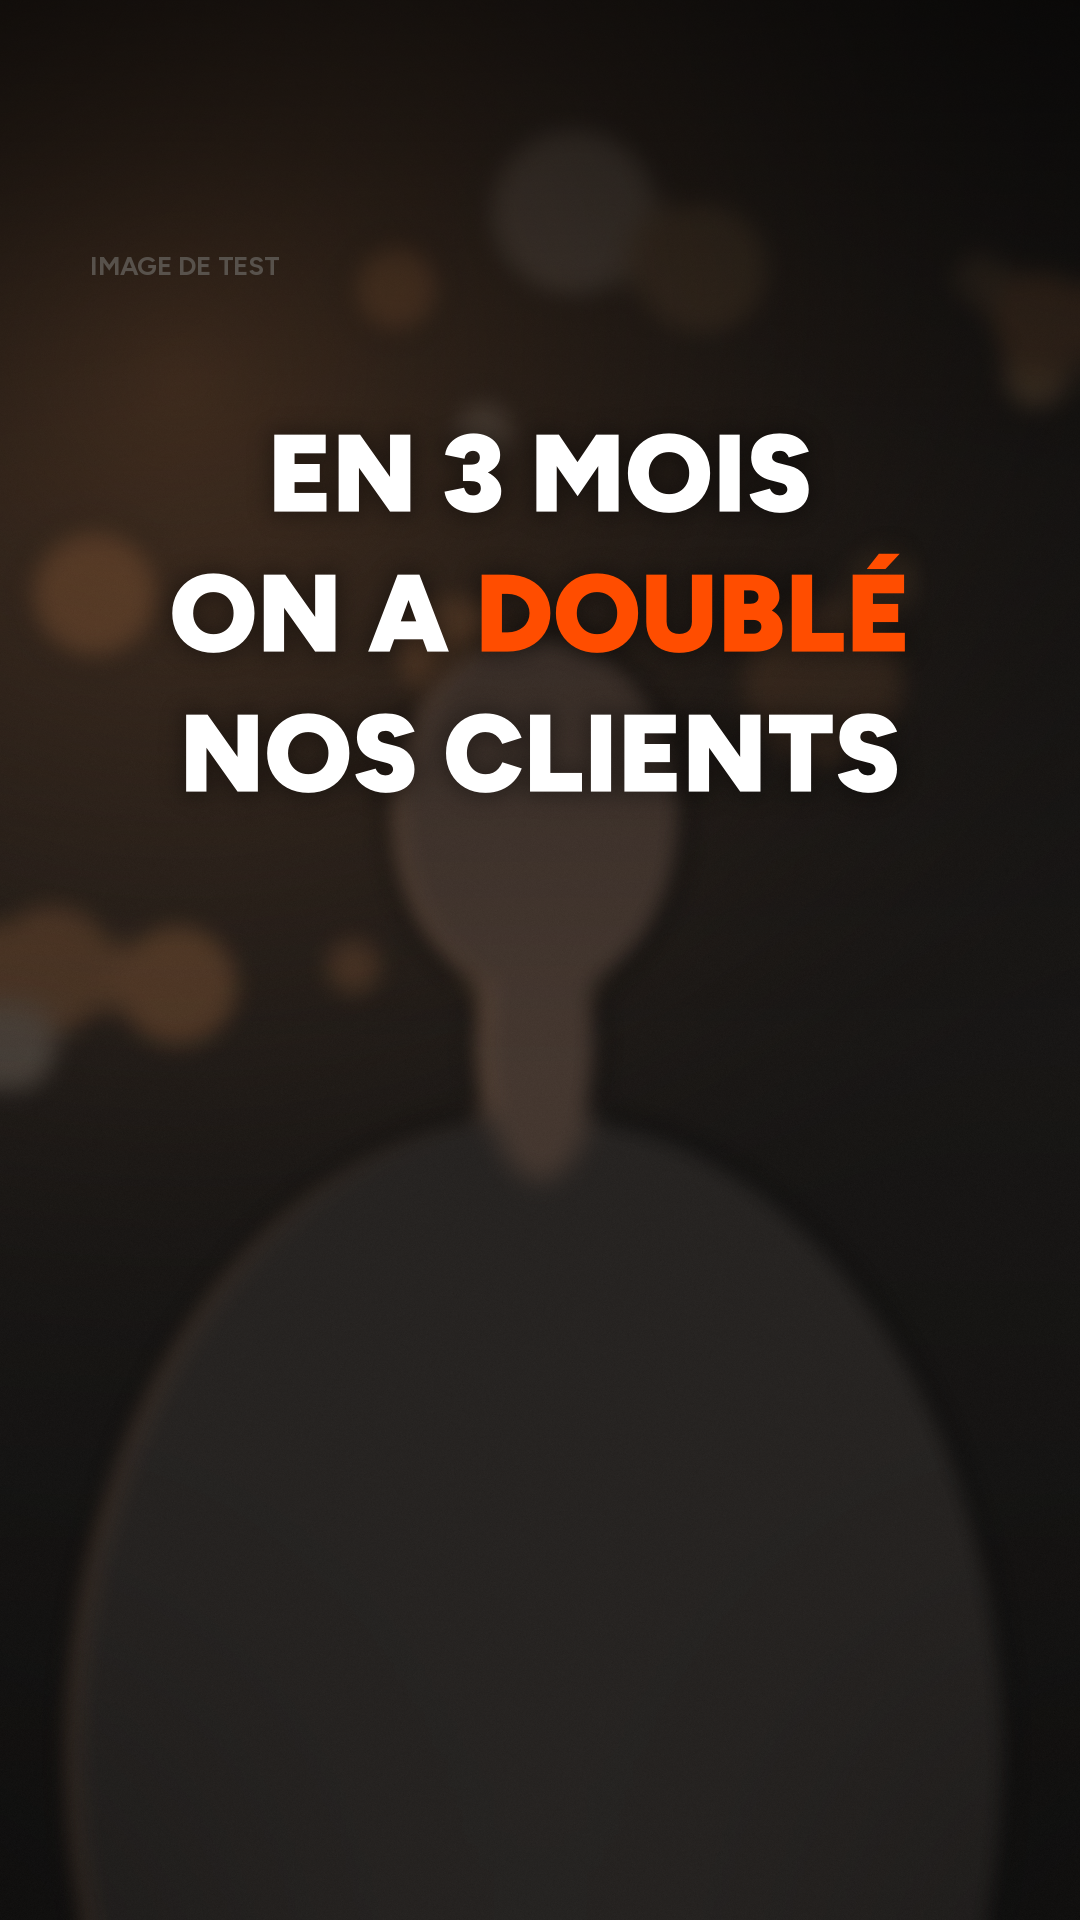
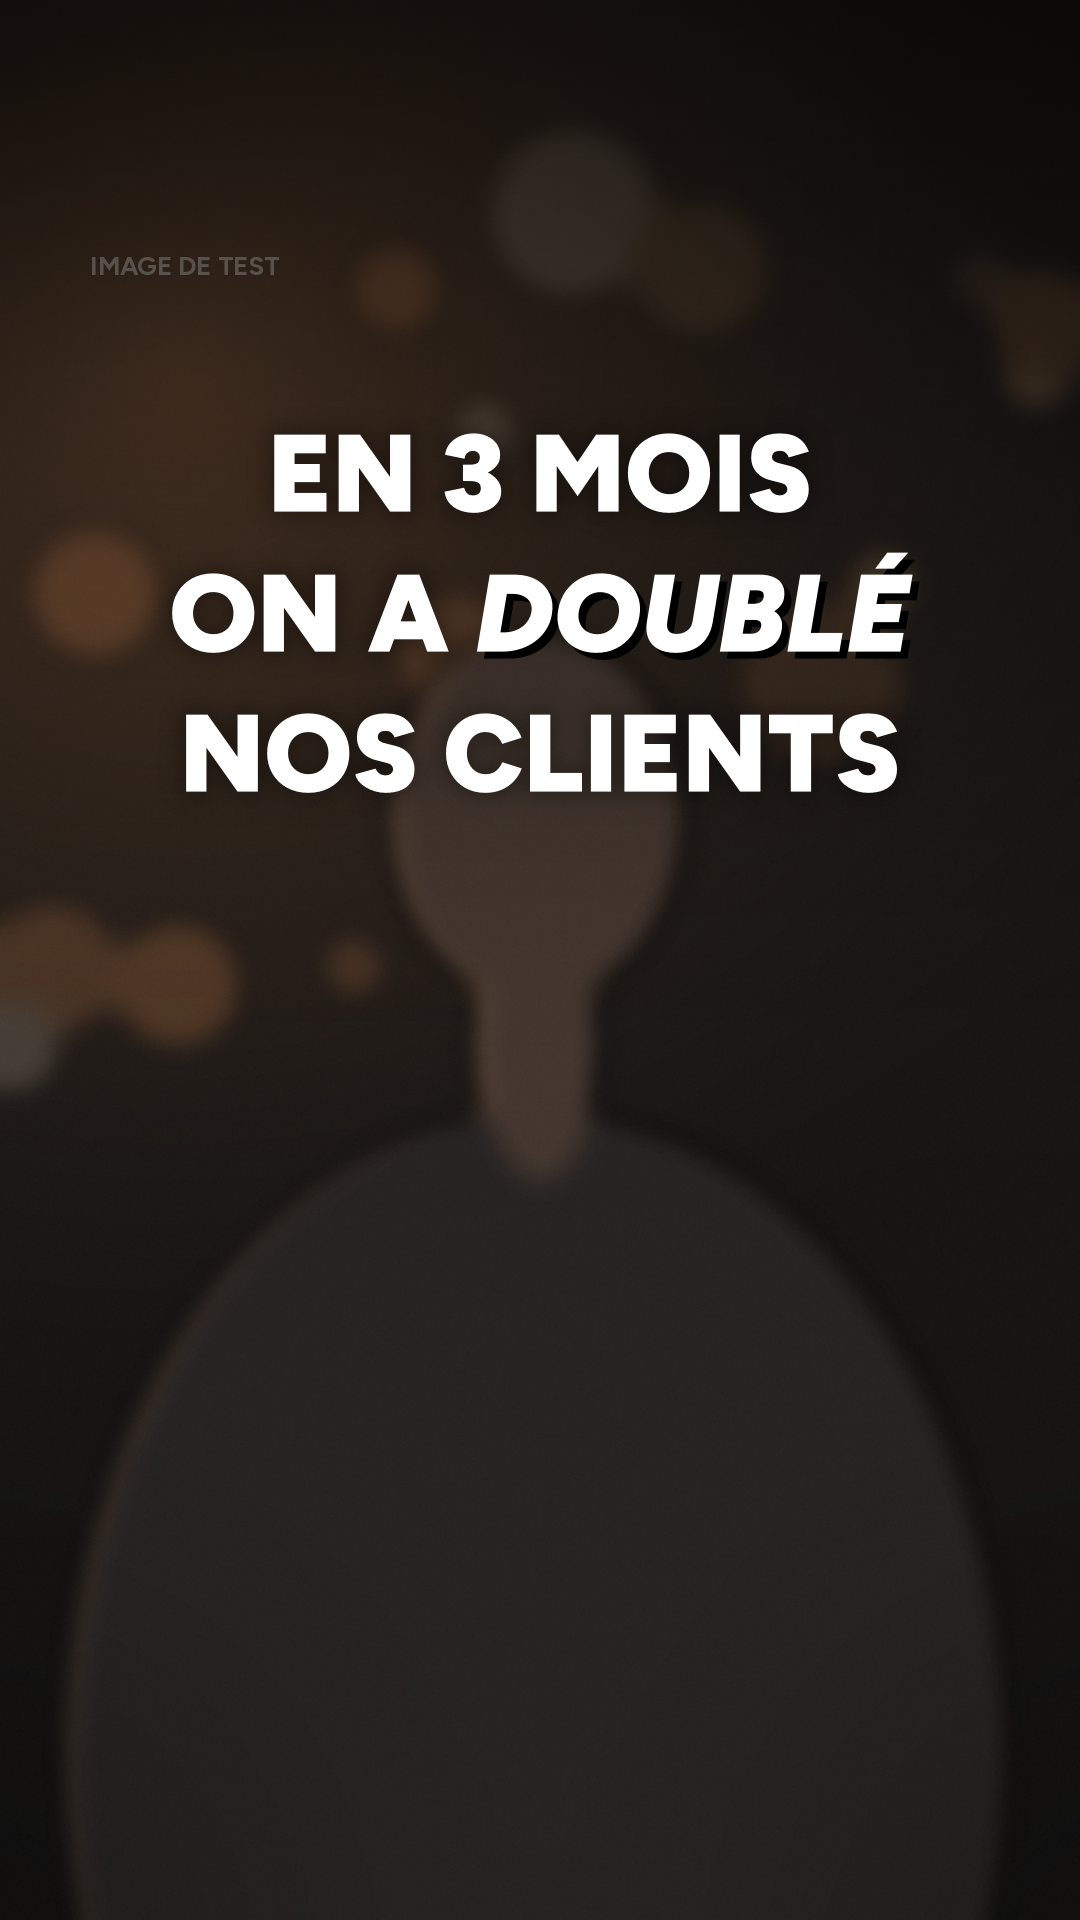
Style noir et blanc : plus d'orange, mots en évidence en italique accentué avec relief noir ; plus de pictos ; bruitages brefs (woutch, toc feutré)
- charte : mise_en_evidence (italique + inclinaison ajoutée + relief noir), moteur.accent blanc, règles mises à jour
- moteur : accroche, grand titre et sous-titres utilisent la mise en évidence ; chiffres, cartes et coches en blanc
- sons : woutch, woutch_court, tap ; plus de scintillement, pop, tics ni bips
- rendu.mjs : option --instants pour un contrôle rapide de quelques images
- aperçus refaits (plus d'aperçu de picto)
- témoignage Hock : pictos retirés (à remplacer par des plans de coupe)

Claude-Session: https://claude.ai/code/session_01VNkxyZ78PRMin1GHmDhwvf

Changed region(s): [[0.4278, 0.2812, 0.8556, 0.3438]]

diff --git a/moteur/src/cartes/AutresCartes.tsx b/moteur/src/cartes/AutresCartes.tsx
@@ -1,5 +1,6 @@
 import React from 'react';
 import {easeOut, lerp, nombreFr, prog} from '../temps';
+import {rgba} from '../miseEnEvidence';
 
 const cadre: React.CSSProperties = {
   position: 'absolute', inset: 0, background: '#0e0e0e', borderRadius: 32, border: '1.5px solid rgba(255,255,255,0.12)',
@@ -7,9 +8,9 @@ const cadre: React.CSSProperties = {
 };
 const titre: React.CSSProperties = {fontFamily: 'Figtree Bold', fontSize: 30, color: '#fff', marginBottom: 26, lineHeight: 1.2};
 
-// Entonnoir : les étapes apparaissent l'une après l'autre, la dernière en orange.
+// Entonnoir : les étapes apparaissent l'une après l'autre, la dernière mise en avant.
 export const Entonnoir: React.FC<{e: any; t: number; charte: any}> = ({e, t, charte}) => {
-  const accent = charte.couleurs.orange;
+  const accent = charte.moteur.accent;
   const n = e.etapes.length;
   const largeur = 388;
   const hauteur = Math.min(150, (764 - 68 - (e.titre ? 66 : 0) - 12 * (n - 1)) / n);
@@ -29,7 +30,7 @@ export const Entonnoir: React.FC<{e: any; t: number; charte: any}> = ({e, t, cha
               <svg width={largeur} height={hauteur} style={{position: 'absolute', inset: 0}}>
                 <path
                   d={`M${(largeur - haut) / 2} 1 H${(largeur + haut) / 2} L${(largeur + bas) / 2} ${hauteur - 1} H${(largeur - bas) / 2} Z`}
-                  fill={derniere ? 'rgba(255,77,0,0.16)' : 'rgba(255,255,255,0.07)'} stroke={derniere ? accent : 'rgba(255,255,255,0.7)'} strokeWidth={2} strokeLinejoin="round"
+                  fill={derniere ? rgba(accent, 0.16) : 'rgba(255,255,255,0.07)'} stroke={derniere ? accent : 'rgba(255,255,255,0.7)'} strokeWidth={2} strokeLinejoin="round"
                 />
               </svg>
               <div style={{position: 'absolute', inset: 0, display: 'flex', flexDirection: 'column', alignItems: 'center', justifyContent: 'center'}}>
@@ -46,9 +47,9 @@ export const Entonnoir: React.FC<{e: any; t: number; charte: any}> = ({e, t, cha
   );
 };
 
-// Gros chiffre : le nombre défile au centre d'un anneau orange qui se remplit.
+// Gros chiffre : le nombre défile au centre d'un anneau qui se remplit.
 export const GrosChiffre: React.FC<{e: any; t: number; charte: any}> = ({e, t, charte}) => {
-  const accent = charte.couleurs.orange;
+  const accent = charte.moteur.accent;
   const [a, b] = e._t.comptage;
   const texteFixe = typeof e.texte === 'string' && e.texte.length > 0;
   // avec un texte fixe : pas de comptage, le texte apparaît et l'anneau se dessine
@@ -80,9 +81,9 @@ export const GrosChiffre: React.FC<{e: any; t: number; charte: any}> = ({e, t, c
   );
 };
 
-// Checklist : chaque ligne se coche à son tour (coche orange qui se dessine).
+// Checklist : chaque ligne se coche à son tour (coche qui se dessine).
 export const Checklist: React.FC<{e: any; t: number; charte: any}> = ({e, t, charte}) => {
-  const accent = charte.couleurs.orange;
+  const accent = charte.moteur.accent;
   return (
     <div style={cadre}>
       {e.titre && <div style={titre}>{e.titre}</div>}
@@ -92,7 +93,7 @@ export const Checklist: React.FC<{e: any; t: number; charte: any}> = ({e, t, cha
           const coche = easeOut(prog(t, e._t.coches[i], e._t.coches[i] + 0.25));
           return (
             <div key={i} style={{display: 'flex', alignItems: 'center', gap: 18, opacity: apparition, transform: `translateX(${((1 - apparition) * 24).toFixed(1)}px)`}}>
-              <div style={{width: 48, height: 48, borderRadius: 12, flexShrink: 0, border: `2px solid ${coche > 0 ? accent : 'rgba(255,255,255,0.6)'}`, background: coche > 0 ? 'rgba(255,77,0,0.12)' : 'transparent', position: 'relative'}}>
+              <div style={{width: 48, height: 48, borderRadius: 12, flexShrink: 0, border: `2px solid ${coche > 0 ? accent : 'rgba(255,255,255,0.6)'}`, background: coche > 0 ? rgba(accent, 0.12) : 'transparent', position: 'relative'}}>
                 <svg viewBox="0 0 24 24" width={44} height={44} style={{position: 'absolute', left: 0, top: 0}}>
                   <path d="M5.5 12.5 L10 17 L18.5 7.5" pathLength={1} fill="none" stroke={accent} strokeWidth={3} strokeLinecap="round" strokeLinejoin="round" strokeDasharray="1 1" strokeDashoffset={1 - coche} />
                 </svg>

diff --git a/moteur/src/couches/Accroche.tsx b/moteur/src/couches/Accroche.tsx
@@ -2,6 +2,7 @@ import React from 'react';
 import {useCurrentFrame, useVideoConfig} from 'remotion';
 import {miseEnPageAccroche} from '../miseEnPage';
 import {easeOut, fondu, prog, sansPonctuation} from '../temps';
+import {styleEvidence} from '../miseEnEvidence';
 
 // Accroche d'ouverture : un sur-titre qui glisse, puis un titre qui s'écrit lettre par lettre.
 export const Accroche: React.FC<{e: any; charte: any; projet: any}> = ({e, charte, projet}) => {
@@ -11,7 +12,6 @@ export const Accroche: React.FC<{e: any; charte: any; projet: any}> = ({e, chart
   if (t < e.debut || t > e.fin) return null;
   const A = charte.moteur.accroche;
   const ti = charte.titres;
-  const accent = charte.couleurs.orange;
   // Sous le visage, juste au-dessus des sous-titres ; l'image ne bouge pas (miseEnPage.ts).
   const {presentation, avecSurtitre, surtitreTaille, surtitreY, em, ecart, premiere, haut} = miseEnPageAccroche(e, charte);
   // léger voile sombre derrière le titre et les sous-titres ; il commence sous le menton
@@ -60,17 +60,18 @@ export const Accroche: React.FC<{e: any; charte: any; projet: any}> = ({e, chart
             }}
           >
             {mots.map((mot, mi) => {
-              const couleur = sansPonctuation(mot) === accentMot ? accent : '#fff';
+              // mot mis en évidence : italique + relief (pas de couleur)
+              const evidence = sansPonctuation(mot) === accentMot ? styleEvidence(ti.police, em, charte) : {};
               const caracteres = (mi > 0 ? ' ' : '') + mot;
               return caracteres.split('').map((ch, ci) => {
                 const i = pos++;
                 const a = easeOut(prog(t, e._t.titre + i / e._t.vitesse, e._t.titre + i / e._t.vitesse + 0.08));
                 const dernier = i === dernierIndex;
                 return (
-                  <span key={`${mi}-${ci}`} style={{position: 'relative', display: 'inline-block', color: couleur}}>
+                  <span key={`${mi}-${ci}`} style={{position: 'relative', display: 'inline-block', color: '#fff', ...evidence}}>
                     <span style={{display: 'inline-block', opacity: a, transform: `translateY(${((1 - a) * 14).toFixed(1)}px)`, filter: a < 1 ? `blur(${((1 - a) * 4).toFixed(1)}px)` : 'none'}}>{ch}</span>
                     {dernier && curseurVisible && (
-                      <span style={{position: 'absolute', right: -14, top: '50%', width: presentation ? 6 : 8, height: em * 0.8, marginTop: -em * 0.45, background: presentation ? '#fff' : accent, borderRadius: 2}} />
+                      <span style={{position: 'absolute', right: -14, top: '50%', width: presentation ? 6 : 8, height: em * 0.8, marginTop: -em * 0.45, background: '#fff', borderRadius: 2}} />
                     )}
                   </span>
                 );

diff --git a/moteur/src/couches/SousTitres.tsx b/moteur/src/couches/SousTitres.tsx
@@ -2,10 +2,11 @@ import React from 'react';
 import {useCurrentFrame, useVideoConfig} from 'remotion';
 import {easeOut, emDepuisAss, fondu, prog} from '../temps';
 import {DessinIcone} from './Icone';
+import {styleEvidence} from '../miseEnEvidence';
 
 // Sous-titres mot à mot. Même place, même taille, même police de base et même ombre
 // que ceux de la première vidéo (charte → sous_titres). Seuls changent :
-// l'apparition mot par mot, le mot en cours en orange et les mots-clés en Figtree Black.
+// l'apparition mot par mot et les mots-clés en italique avec un relief (charte → mise_en_evidence). Tout reste blanc.
 // Les icônes liées à un mot sont dessinées juste au-dessus de ce mot (jamais sur le visage) ;
 // si la ligne de sous-titres change avant la fin de l'icône, l'icône reste à sa place.
 export const SousTitres: React.FC<{projet: any; charte: any}> = ({projet, charte}) => {
@@ -24,6 +25,7 @@ export const SousTitres: React.FC<{projet: any; charte: any}> = ({projet, charte
   const M = charte.moteur.sous_titres;
   const em = emDepuisAss(n.taille_ass);
   const o = st.ombre;
+  const relief = styleEvidence(M.mots_cles_police, em, charte);
   const ombre = `${o.decalage_x_px}px ${o.decalage_y_px}px ${o.flou}px rgba(0,0,0,1), ${o.decalage_x_px}px ${o.decalage_y_px}px ${o.epaisseur_px}px rgba(0,0,0,0.95), 0 0 ${o.epaisseur_px}px rgba(0,0,0,0.6)`;
 
   const icones = projet.effets.filter((e: any) => e.type === 'icone' && e.mot_id !== undefined && t >= e.debut && t <= e.fin);
@@ -51,9 +53,9 @@ export const SousTitres: React.FC<{projet: any; charte: any}> = ({projet, charte
               {i > 0 ? ' ' : ''}
               <span
                 style={{
-                  position: 'relative', display: 'inline-block', fontFamily: m.cle ? M.mots_cles_police : n.police,
-                  color: fantome ? 'transparent' : actif ? M.mot_actif_couleur : st.couleur, textShadow: fantome ? 'none' : ombre, opacity: a,
-                  transform: `translateY(${((1 - a) * 10).toFixed(1)}px)`, filter: a < 1 ? `blur(${((1 - a) * 5).toFixed(1)}px)` : 'none',
+                  position: 'relative', display: 'inline-block', fontFamily: m.cle ? relief.fontFamily : n.police,
+                  color: fantome ? 'transparent' : actif ? M.mot_actif_couleur : st.couleur, textShadow: fantome ? 'none' : m.cle ? relief.textShadow : ombre, opacity: a,
+                  transform: `translateY(${((1 - a) * 10).toFixed(1)}px)${m.cle ? ' ' + relief.transform : ''}`, filter: a < 1 ? `blur(${((1 - a) * 5).toFixed(1)}px)` : 'none',
                 }}
               >
                 {m.texte}

diff --git a/moteur/src/miseEnEvidence.ts b/moteur/src/miseEnEvidence.ts
@@ -1,0 +1,35 @@
+import {lerp} from './temps';
+
+// Mise en évidence d'un mot sans couleur (noir et blanc uniquement, demande de l'utilisateur) :
+// la même graisse en italique, avec un relief noir (extrusion vers le bas à droite, puis ombre douce).
+// Réglages : charte → mise_en_evidence.
+export const policeItalique = (police: string) =>
+  police.endsWith('Italic') ? police : police === 'Figtree Regular' ? 'Figtree Italic' : `${police} Italic`;
+
+export const ombreRelief = (taillePx: number, charte: any) => {
+  const R = charte.mise_en_evidence;
+  const n = Math.max(2, Math.round(taillePx * R.profondeur_em));
+  const couches: string[] = [];
+  for (let i = 1; i <= n; i++) {
+    const g = Math.round(lerp(R.gris_haut, R.gris_bas, (i - 1) / Math.max(1, n - 1)));
+    couches.push(`${i}px ${i}px 0 rgb(${g},${g},${g})`);
+  }
+  couches.push(`${n + 2}px ${n + 3}px ${Math.round(n * 2.5)}px rgba(0,0,0,${R.ombre_opacite})`);
+  return couches.join(', ');
+};
+
+// italique accentué : l'inclinaison de la police, plus une inclinaison ajoutée (charte → inclinaison_supplementaire_deg)
+export const inclinaison = (charte: any) => `skewX(${-charte.mise_en_evidence.inclinaison_supplementaire_deg}deg)`;
+
+export const styleEvidence = (police: string, taillePx: number, charte: any) => ({
+  fontFamily: policeItalique(police),
+  textShadow: ombreRelief(taillePx, charte),
+  display: 'inline-block' as const,
+  transform: inclinaison(charte),
+});
+
+// couleur #RRGGBB avec transparence
+export const rgba = (hex: string, a: number) => {
+  const n = parseInt(hex.slice(1), 16);
+  return `rgba(${n >> 16},${(n >> 8) & 255},${n & 255},${a})`;
+};

diff --git a/moteur/src/couches/Icone.tsx b/moteur/src/couches/Icone.tsx
@@ -2,7 +2,7 @@ import React from 'react';
 import {random, spring, useCurrentFrame, useVideoConfig} from 'remotion';
 import {easeOut, prog} from '../temps';
 
-// Icônes au trait fin blanc + un seul détail orange (charte → icones), dessinées sur 100×100.
+// Icônes au trait fin blanc + un seul détail (couleur charte → moteur.accent), dessinées sur 100×100. Plus utilisées par défaut : l'utilisateur préfère des plans de coupe.
 const ICONES: Record<string, {traits: string[]; detail: (c: string) => React.ReactNode}> = {
   courbe: {traits: ['M10 8 V90 H92', 'M22 74 L42 52 L57 63 L86 24'], detail: (c) => <circle cx={86} cy={24} r={6} fill={c} />},
   etoile: {
@@ -39,7 +39,7 @@ const ICONES: Record<string, {traits: string[]; detail: (c: string) => React.Rea
 export const DessinIcone: React.FC<{e: any; t: number; taille: number; charte: any}> = ({e, t, taille, charte}) => {
   const {fps} = useVideoConfig();
   const I = charte.moteur.icone;
-  const accent = charte.couleurs.orange;
+  const accent = charte.moteur.accent;
   const def = ICONES[e.icone] ?? ICONES.courbe;
   const rebond = spring({frame: (t - e.debut) * fps, fps, config: {damping: 8, stiffness: 170, mass: 0.7}});
   const trace = easeOut(prog(t, e.debut + 0.05, e.debut + 0.05 + I.duree_trace_s));

diff --git a/moteur/src/couches/GrandTitre.tsx b/moteur/src/couches/GrandTitre.tsx
@@ -1,6 +1,7 @@
 import React from 'react';
 import {spring, useCurrentFrame, useVideoConfig} from 'remotion';
 import {clamp, emDepuisAss, prog, sansPonctuation} from '../temps';
+import {styleEvidence} from '../miseEnEvidence';
 
 // Grand titre sur une phrase choc : le visage est flouté derrière (voir Camera),
 // chaque ligne arrive en 3D (bascule vers l'avant), puis repart vers le haut.
@@ -11,7 +12,6 @@ export const GrandTitre: React.FC<{e: any; charte: any}> = ({e, charte}) => {
   if (t < e.debut - 0.05 || t > e.fin) return null;
   const G = charte.moteur.grand_titre;
   const ti = charte.titres;
-  const accent = charte.couleurs.orange;
   const em = emDepuisAss(132) * 1.12;
   const ecart = 150;
   const lignes: string[] = e.lignes.map((l: string) => l.toUpperCase());
@@ -36,7 +36,7 @@ export const GrandTitre: React.FC<{e: any; charte: any}> = ({e, charte}) => {
             }}
           >
             {ligne.split(' ').map((mot, mi) => (
-              <span key={mi} style={{color: sansPonctuation(mot) === accentMot ? accent : '#fff'}}>
+              <span key={mi} style={{color: '#fff', ...(sansPonctuation(mot) === accentMot ? styleEvidence(ti.police, em, charte) : {})}}>
                 {(mi > 0 ? ' ' : '') + mot}
               </span>
             ))}

diff --git a/moteur/src/couches/Chiffre.tsx b/moteur/src/couches/Chiffre.tsx
@@ -2,14 +2,14 @@ import React from 'react';
 import {spring, useCurrentFrame, useVideoConfig} from 'remotion';
 import {easeOut, lerp, nombreFr, prog} from '../temps';
 
-// Chiffre qui défile jusqu'à sa valeur. Le chiffre est blanc, les signes (+, %, €…) en orange.
+// Chiffre qui défile jusqu'à sa valeur. Le chiffre et ses signes (+, %, €…) sont blancs (charte → moteur.accent).
 export const Chiffre: React.FC<{e: any; charte: any}> = ({e, charte}) => {
   const frame = useCurrentFrame();
   const {fps, width: W} = useVideoConfig();
   const t = frame / fps;
   if (t < e.debut || t > e.fin) return null;
   const C = charte.moteur.chiffre;
-  const accent = charte.couleurs.orange;
+  const accent = charte.moteur.accent;
   const taille = e.taille ?? C.taille_px;
   const [a, b] = e._t.comptage;
   const p = easeOut(prog(t, a, b));

diff --git a/moteur/src/cartes/ChatIA.tsx b/moteur/src/cartes/ChatIA.tsx
@@ -4,7 +4,7 @@ import {easeOut, prog} from '../temps';
 // Fenêtre de chat IA : mon message se tape tout seul, s'envoie, l'IA « écrit… » puis répond.
 export const ChatIA: React.FC<{e: any; t: number; charte: any}> = ({e, t, charte}) => {
   const C = charte.moteur.chat;
-  const accent = charte.couleurs.orange;
+  const accent = charte.moteur.accent;
   const T = e._t;
   const nbLettres = Math.max(0, Math.min(e.message.length, Math.floor((t - T.frappe) * C.lettres_par_s)));
   const envoye = t >= T.envoi;

diff --git a/moteur/src/couches/Ambiance.tsx b/moteur/src/couches/Ambiance.tsx
@@ -93,7 +93,7 @@ export const CarteFin: React.FC<{e: any; charte: any}> = ({e, charte}) => {
   const t = frame / fps;
   if (t < e.debut) return null;
   const F = charte.moteur.carte_fin;
-  const accent = charte.couleurs.orange;
+  const accent = charte.moteur.accent;
   const fond = easeOut(prog(t, e.debut, e.debut + 0.3));
   const barre = easeOut(prog(t, e.debut + 0.15, e.debut + 0.5));
   const role = easeOut(prog(t, e.debut + 0.35, e.debut + 0.65));

diff --git a/outils/generer_apercus.py b/outils/generer_apercus.py
@@ -120,7 +120,8 @@ def rendu(fond, ass_texte, sortie, polices, t=0.9):
 
 
 def mot_cle(mot):
-    return f"{{\\c{ASS_ORANGE}&}}{mot}{{\\c{ASS_BLANC}&}}"
+    # mot mis en évidence sans couleur : italique + relief noir (ombre nette décalée), puis retour au style
+    return f"{{\\fnFigtree Black Italic\\bord0\\blur0\\shad7\\4c&H000000&\\4a&H00&}}{mot}{{\\r\\blur12}}"
 
 
 def sous_titre(texte):
@@ -204,11 +205,7 @@ def main():
             for i, l in enumerate(lignes))
         rendu(degrade_haut(fond), ENTETE_TITRES + evts, SORTIE / "2-grand-titre.png", polices)
 
-        # 3. Icône animée figée en plein tracé, sur la vidéo floutée et assombrie
-        flou = fond.filter(ImageFilter.GaussianBlur(40)).point(lambda v: int(v * 0.45))
-        ico = icone_courbe(360)
-        flou.paste(ico, (540 - ico.width // 2, 800 - ico.height // 2), ico)
-        rendu(flou, sous_titre("Et ça a décollé."), SORTIE / "3-icone-animee.png", polices)
+        # (plus d'aperçu d'icône : l'utilisateur ne veut plus de pictos, remplacés par des plans de coupe)
 
     print("Aperçus enregistrés dans", SORTIE)
 
